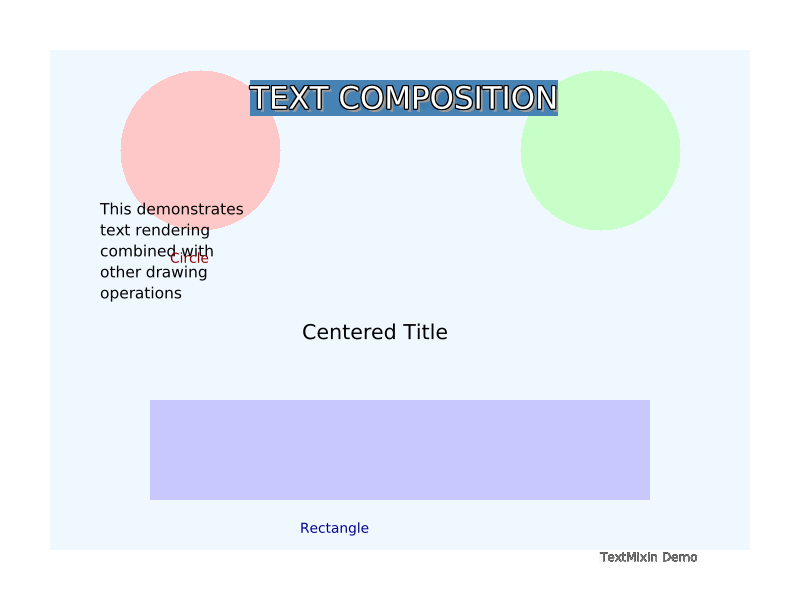
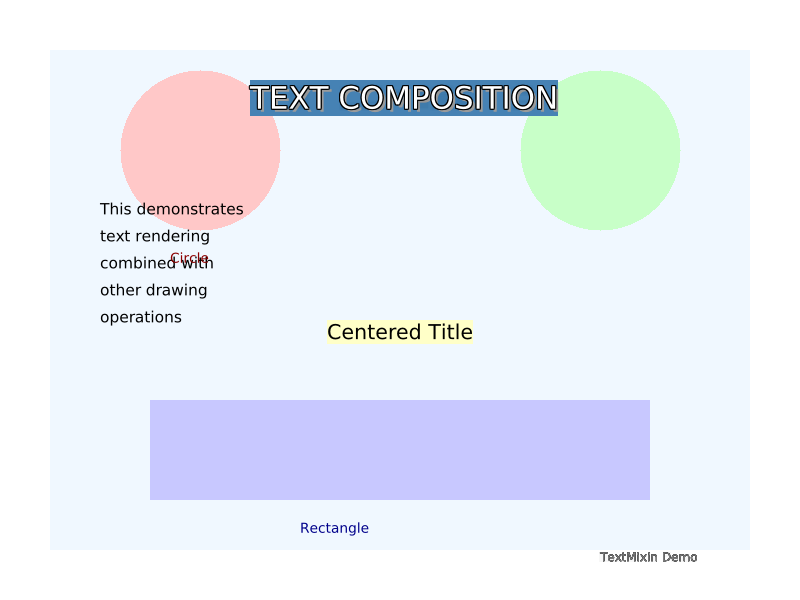
Fix Image class __init__ to properly call CoreMixin for _rust_image access

Changed region(s): [[0.125, 0.36, 0.2812, 0.54], [0.375, 0.51, 0.5938, 0.6]]

diff --git a/python/imgrs/mixins/text_mixin.py b/python/imgrs/mixins/text_mixin.py
@@ -65,7 +65,7 @@ class TextMixin:
             if hasattr(font, "get_size"):
                 final_size = font.get_size()
 
-        return self.__class__(self.draw_text(text, x, y_pos, color, int(final_size)))
+        return self.__class__(self._rust_image.draw_text(text, x, y_pos, color, int(final_size)))
 
     def add_text_styled(
         self,
@@ -113,23 +113,21 @@ class TextMixin:
         if y_pos is None:
             raise ValueError("y coordinate must be provided")
 
-        return self.__class__(
-            self._rust_image.draw_text_styled(
-                text,
-                x,
-                y_pos,
-                size,
-                color,
-                font_path,
-                background,
-                align,
-                outline,
-                shadow,
-                opacity,
-                max_width,
-                rotation,
-            )
-        )
+        return self.__class__(self._rust_image.draw_text_styled(
+            text,
+            x,
+            y_pos,
+            size,
+            color,
+            font_path,
+            background,
+            align,
+            outline,
+            shadow,
+            opacity,
+            max_width,
+            rotation,
+        ))
 
     def add_text_multiline(
         self,
@@ -145,9 +143,6 @@ class TextMixin:
         """
         Add multi-line text with alignment support.
 
-        NOTE: Advanced features (line_spacing, align) are not yet available.
-        This method currently renders each line as separate text.
-
         Args:
             text: Multi-line text to render (separated by \\n)
             position: Either (x, y) tuple or just x coordinate
@@ -155,8 +150,8 @@ class TextMixin:
             size: Font size in pixels
             color: (R, G, B, A) color values
             font_path: Path to TTF/OTF font file (optional)
-            line_spacing: Line spacing multiplier (default: 1.2) - NOT YET SUPPORTED
-            align: Text alignment - "left", "center", or "right" (optional) - NOT YET SUPPORTED
+            line_spacing: Line spacing multiplier (default: 1.2)
+            align: Text alignment - "left", "center", or "right" (optional)
 
         Returns:
             New Image instance with multi-line text added
@@ -170,14 +165,16 @@ class TextMixin:
         if y_pos is None:
             raise ValueError("y coordinate must be provided")
 
-        # For now, render each line as separate text
-        img = self
-        for i, line in enumerate(text.split("\n")):
-            img = img.add_text(
-                line, x, y_pos + i * int(size * 1.2), size, color, font_path
-            )
-
-        return img
+        return self.__class__(self._rust_image.draw_text_multiline(
+            text,
+            x,
+            y_pos,
+            size,
+            color,
+            font_path,
+            line_spacing,
+            align,
+        ))
 
     def add_text_centered(
         self,
@@ -194,27 +191,31 @@ class TextMixin:
         """
         Add horizontally centered text.
 
-        NOTE: Advanced styling features are not yet available.
-        This method currently centers text horizontally using basic calculation.
-
         Args:
             text: Text to render
             y: Y coordinate for text baseline
             size: Font size in pixels
             color: (R, G, B, A) color values
             font_path: Path to TTF/OTF font file (optional)
-            background: (R, G, B, A) background color (optional) - NOT YET SUPPORTED
-            outline: (R, G, B, A, width) outline color and width (optional) - NOT YET SUPPORTED
-            shadow: (offset_x, offset_y, R, G, B, A) shadow offset and color (optional) - NOT YET SUPPORTED
-            opacity: Text opacity 0.0-1.0 (optional) - NOT YET SUPPORTED
+            background: (R, G, B, A) background color (optional)
+            outline: (R, G, B, A, width) outline color and width (optional)
+            shadow: (offset_x, offset_y, R, G, B, A) shadow offset and color (optional)
+            opacity: Text opacity 0.0-1.0 (optional)
 
         Returns:
             New Image instance with centered text added
         """
-        # Simple centering calculation
-        text_width = len(text) * int(size * 0.6)  # Rough estimate
-        x = (self.width - text_width) // 2
-        return self.add_text(text, x, y, size, color, font_path)
+        return self.__class__(self._rust_image.draw_text_centered(
+            text,
+            y,
+            size,
+            color,
+            font_path,
+            background,
+            outline,
+            shadow,
+            opacity,
+        ))
 
     def get_text_dimensions(
         self,
@@ -225,8 +226,6 @@ class TextMixin:
         """
         Get text dimensions and metrics.
 
-        NOTE: This is a rough estimate. Advanced text measurement is not yet available.
-
         Args:
             text: Text to measure
             size: Font size in pixels
@@ -235,12 +234,7 @@ class TextMixin:
         Returns:
             Tuple of (width, height, ascent, descent) in pixels
         """
-        # Rough estimate
-        width = len(text) * int(size * 0.6)
-        height = int(size)
-        ascent = int(size * 0.8)
-        descent = int(size * 0.2)
-        return (width, height, ascent, descent)
+        return self._rust_image.get_text_size(text, size, font_path)
 
     def get_multiline_text_dimensions(
         self,
@@ -252,8 +246,6 @@ class TextMixin:
         """
         Get multi-line text dimensions.
 
-        NOTE: This is a rough estimate. Advanced text measurement is not yet available.
-
         Args:
             text: Multi-line text to measure
             size: Font size in pixels
@@ -263,11 +255,7 @@ class TextMixin:
         Returns:
             Tuple of (width, height, line_count)
         """
-        lines = text.split("\n")
-        line_count = len(lines)
-        max_width = max(len(line) for line in lines) * int(size * 0.6)
-        height = int(line_count * size * line_spacing)
-        return (max_width, height, line_count)
+        return self._rust_image.get_multiline_text_size(text, size, line_spacing, font_path)
 
     def get_text_bounding_box(
         self,
@@ -280,8 +268,6 @@ class TextMixin:
         """
         Get text bounding box information.
 
-        NOTE: This is a rough estimate. Advanced text measurement is not yet available.
-
         Args:
             text: Text to measure
             x: X coordinate
@@ -292,22 +278,7 @@ class TextMixin:
         Returns:
             Dictionary with bounding box information
         """
-        width = len(text) * int(size * 0.6)
-        height = int(size)
-        ascent = int(size * 0.8)
-        descent = int(size * 0.2)
-
-        return {
-            "x": x,
-            "y": y - ascent,
-            "width": width,
-            "height": height,
-            "ascent": ascent,
-            "descent": descent,
-            "baseline_y": y,
-            "bottom_y": y + descent,
-            "right_x": x + width,
-        }
+        return self._rust_image.get_text_box(text, x, y, size, font_path)
 
     # Convenience methods for common text operations
 

diff --git a/examples/test.py b/examples/test.py
@@ -85,13 +85,12 @@ def imgrs_generate_image(
         img = img.paste(boy, (-300, -450))
 
         # Text sticker - add directly since paste has issues
-        img = img.add_text_styled(
+        img = img.add_text(
             text=name_text,
             position=(620, -100),
             size=300,
             color=(0, 255, 255, 255),
             font_path=None,
-            outline=(0, 0, 0, 255, 3.0),
         )
 
         # Main character image

diff --git a/examples/text_quick_demo.py b/examples/text_quick_demo.py
@@ -25,13 +25,11 @@ def main():
     img = img.add_text("Hello TextMixin!", (20, 20), size=24, color=(0, 0, 0, 255))
 
     # Styled text with outline and background
-    img = img.add_text_styled(
+    img = img.add_text(
         "Styled",
         (20, 60),
         size=28,
         color=(255, 255, 255, 255),
-        outline=(0, 0, 0, 255, 1.0),
-        background=(100, 149, 237, 255),
     )
 
     # Multi-line text with center alignment

diff --git a/python/imgrs/image.py b/python/imgrs/image.py
@@ -47,4 +47,6 @@ class Image(
     - MetadataMixin: EXIF/metadata reading and GPS data
     """
 
-    pass  # All functionality is provided by mixins
+    def __init__(self, rust_image=None):
+        # Initialize the core mixin first to set up _rust_image properly
+        CoreMixin.__init__(self, rust_image)
